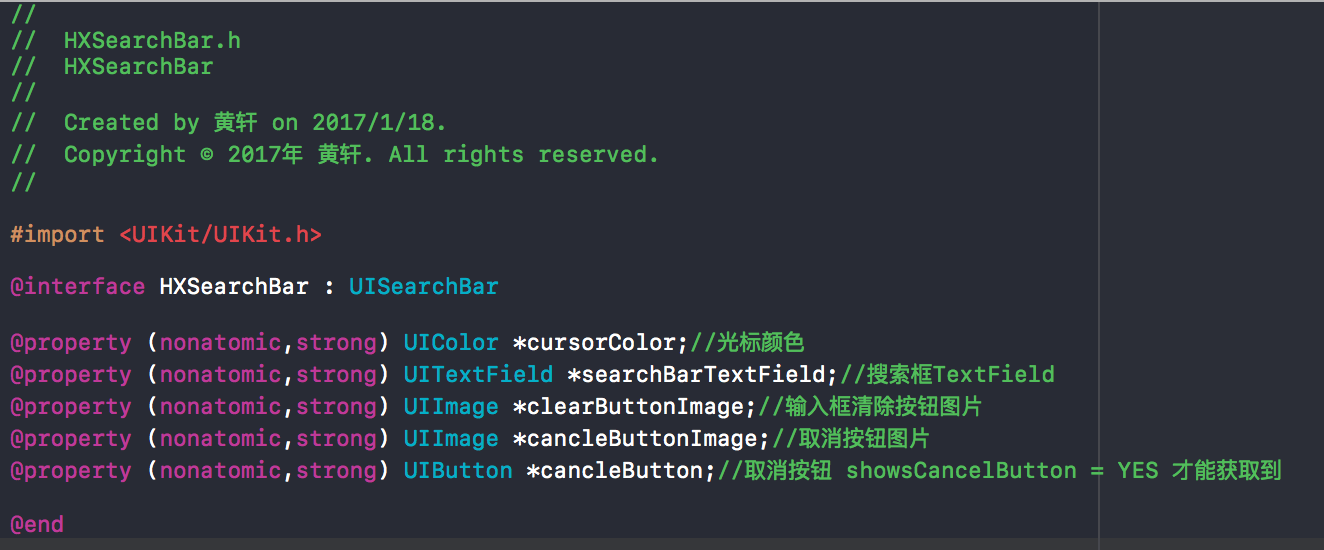
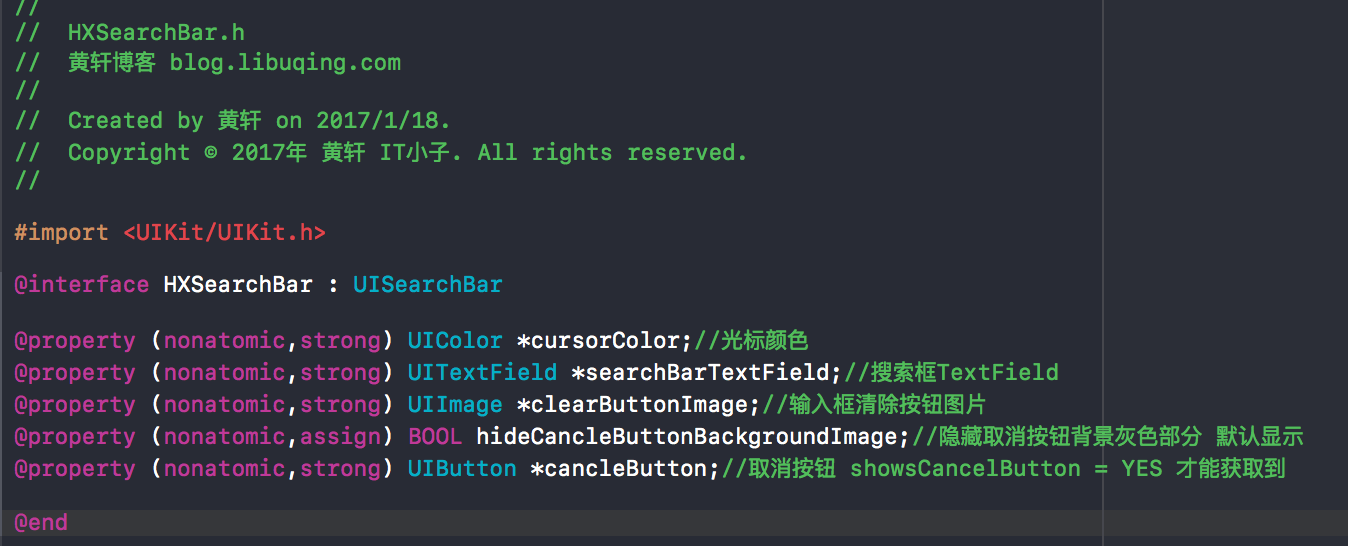
1111

diff --git a/HXSearchBar/SearchBar/HXSearchBar.h b/HXSearchBar/SearchBar/HXSearchBar.h
@@ -13,7 +13,7 @@
 @property (nonatomic,strong) UIColor *cursorColor;//光标颜色
 @property (nonatomic,strong) UITextField *searchBarTextField;//搜索框TextField
 @property (nonatomic,strong) UIImage *clearButtonImage;//输入框清除按钮图片
-@property (nonatomic,strong) UIImage *cancleButtonImage;//取消按钮图片
+@property (nonatomic,assign) BOOL hideCancleButtonBackgroundImage;//隐藏取消按钮背景灰色部分 默认显示
 @property (nonatomic,strong) UIButton *cancleButton;//取消按钮 showsCancelButton = YES 才能获取到
 
 @end

diff --git a/HXSearchBar/SearchBar/HXSearchBar.m b/HXSearchBar/SearchBar/HXSearchBar.m
@@ -48,12 +48,10 @@
     }
 }
 
-//设置取消按钮背景图片
-- (void)setCancleButtonImage:(UIImage *)cancleButtonImage
-{
-    if (cancleButtonImage) {
-        _cancleButtonImage = cancleButtonImage;
-         self.backgroundImage = cancleButtonImage;
+- (void)setHideCancleButtonBackgroundImage:(BOOL)hideCancleButtonBackgroundImage {
+    if (hideCancleButtonBackgroundImage) {
+        _hideCancleButtonBackgroundImage = hideCancleButtonBackgroundImage;
+         self.backgroundImage = [[UIImage alloc] init];
     }
 }
 

diff --git a/HXSearchBar/ViewController.m b/HXSearchBar/ViewController.m
@@ -41,8 +41,8 @@
     //清除按钮图标
     searchBar.clearButtonImage = [UIImage imageNamed:@"demand_delete"];
     
-    //去掉取消按钮背景
-    searchBar.cancleButtonImage = [[UIImage alloc] init];
+    //去掉取消按钮灰色背景
+    searchBar.hideCancleButtonBackgroundImage = YES;
 
     [self.view addSubview:searchBar];
 }
